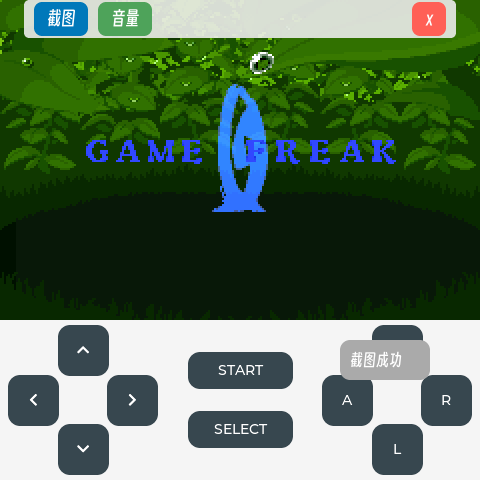
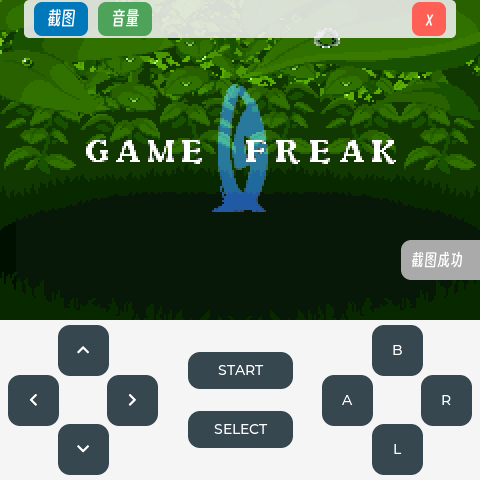
feat(overlay): toast slides in from off-screen right at mid height, clipped 1/8, then drops+ fades
Reworked the screenshot toast animation per the requested feel:
- slide in from OFF-SCREEN right at mid height (y = 480/2 = 240), 700ms,
  stopping with the right ~1/8 of the bar (11px of 90px) still clipped
  outside the screen (rests at x = 480-90+11 = 401, visible 401-480);
- wait 1.5s;
- drop towards the bottom-left (x-30, y+100) while fading out over 500ms,
  then delete (opacity anim's ready cb removes the object).

Board-verified with three framebuffer captures: mid-slide at 0.35s the bar
spans x 430-479 (growing), at rest 0.95s it spans x 401-479 (79px visible =
11px clipped), at 2.95s it is gone. Screenshot log still prints the full
path.

diff --git a/src/gba_core/gba_overlay.c b/src/gba_core/gba_overlay.c
@@ -147,20 +147,28 @@ static void vol_bar_hide(gba_overlay_t* ov)
 }
 
 /* --------------------------------------------------------------------------
- * toast (side tip popup, 1:1 mirror of eMP-video's sideTipsPopupCreate)
- *   - position: align BOTTOM_RIGHT (60, -10)  -> (330, 430) on 480x480
- *   - appear:   lv_anim_move(+10, -90)        -> pops up to (340, 340), 700ms
- *   - vanish:   lv_anim_drop_out()            -> fade out after 1500ms
- * LVGL v9.4 has neither lv_anim_move nor lv_anim_drop_out (v8 APIs), so the
- * same motion is expressed with plain absolute-position/opacity animations.
+ * toast (side tip popup)
+ * Full animation, as requested:
+ *   1) slide in from OFF-SCREEN RIGHT at mid height (y = 480/2 = 240),
+ *      700ms, stopping with the right ~1/8 of the bar (11px) still clipped
+ *      outside the screen (the bar is 90px wide -> rests at x = 480-90+11);
+ *   2) wait 1.5s;
+ *   3) drop towards the bottom-left while fading out (~500ms), then delete.
+ * LVGL v9.4 has no lv_anim_move / lv_anim_drop_out (v8 APIs), so the same
+ * motion is expressed with absolute-position + opacity lv_anim animations.
  * ------------------------------------------------------------------------ */
+
+#define TOAST_W       90
+#define TOAST_H       40
+#define TOAST_X_REST  (GBA_SCREEN_W - TOAST_W + 11)   /* right 11px (~1/8) stays off-screen */
+#define TOAST_Y       (GBA_SCREEN_H / 2)              /* slide in at mid height */
 
 static void toast_set_opa(void* obj, int32_t v)
 {
     lv_obj_set_style_opa((lv_obj_t*)obj, (lv_opa_t)v, 0);
 }
 
-static void toast_fade_out_ready(lv_anim_t* a)
+static void toast_drop_ready(lv_anim_t* a)
 {
     lv_obj_t* pop = (lv_obj_t*)a->var;
     lv_obj_del(pop);
@@ -171,14 +179,19 @@ static void toast_timer_cb(lv_timer_t* t)
     lv_obj_t* pop = (lv_obj_t*)lv_timer_get_user_data(t);
     if (pop == NULL) return;
 
-    /* lv_anim_drop_out: fade to transparent, then delete */
+    /* drop left-down + fade out, then delete */
+    const int x = lv_obj_get_x(pop);
+    const int y = lv_obj_get_y(pop);
+    gba_anim_obj(pop, (lv_anim_exec_xcb_t)lv_obj_set_x, x, x - 30, 500);
+    gba_anim_obj(pop, (lv_anim_exec_xcb_t)lv_obj_set_y, y, y + 100, 500);
+
     lv_anim_t a;
     lv_anim_init(&a);
     lv_anim_set_var(&a, pop);
     lv_anim_set_exec_cb(&a, toast_set_opa);
     lv_anim_set_values(&a, LV_OPA_COVER, LV_OPA_TRANSP);
-    lv_anim_set_time(&a, 300);
-    lv_anim_set_ready_cb(&a, toast_fade_out_ready);
+    lv_anim_set_time(&a, 500);
+    lv_anim_set_ready_cb(&a, toast_drop_ready);
     lv_anim_start(&a);
 }
 
@@ -187,17 +200,13 @@ static void overlay_toast_create(const char* tips)
     lv_obj_t* pop = lv_obj_create(lv_layer_top());
     lv_obj_remove_style_all(pop);
     lv_obj_clear_flag(pop, LV_OBJ_FLAG_SCROLLABLE);
-    lv_obj_set_size(pop, 90, 40);
+    lv_obj_set_size(pop, TOAST_W, TOAST_H);
     lv_obj_set_style_bg_opa(pop, LV_OPA_COVER, 0);
     lv_obj_set_style_bg_color(pop, lv_color_hex(0xAAAAAA), 0);
     lv_obj_set_style_radius(pop, 10, 0);
-    /* absolute pos of BOTTOM_RIGHT (60, -10) */
-    lv_obj_set_pos(pop, GBA_SCREEN_W - 90 - 60, GBA_SCREEN_H - 40 - 10);
-    /* appear: pop up (+10, -90) like lv_anim_move */
-    gba_anim_obj(pop, (lv_anim_exec_xcb_t)lv_obj_set_x,
-                 GBA_SCREEN_W - 90 - 60, GBA_SCREEN_W - 90 - 60 + 10, 700);
-    gba_anim_obj(pop, (lv_anim_exec_xcb_t)lv_obj_set_y,
-                 GBA_SCREEN_H - 40 - 10, GBA_SCREEN_H - 40 - 10 - 90, 700);
+    /* 1) slide in from off-screen right at mid height */
+    lv_obj_set_pos(pop, GBA_SCREEN_W, TOAST_Y);
+    gba_anim_obj(pop, (lv_anim_exec_xcb_t)lv_obj_set_x, GBA_SCREEN_W, TOAST_X_REST, 700);
 
     lv_obj_t* label = lv_label_create(pop);
     lv_font_t* f = gba_font_get(16);
@@ -206,7 +215,7 @@ static void overlay_toast_create(const char* tips)
     lv_obj_align(label, LV_ALIGN_LEFT_MID, 10, 0);
     lv_label_set_text(label, tips);
 
-    /* one-shot timer: fade out + delete after 1.5s */
+    /* 2) wait 1.5s, then drop + fade out */
     lv_timer_t* t = lv_timer_create(toast_timer_cb, 1500, pop);
     lv_timer_set_repeat_count(t, 1);
 }

diff --git a/README.md b/README.md
@@ -112,7 +112,7 @@ export LV_GBA_AUDIO_DEVICE=default   # ALSA PCM 设备（可选）
   - **右划** → 音量条收回
 - 音量条打开时**忽略下滑**（避免拖动滑块误呼出顶部栏）；顶部栏「音量」按钮也可开关音量条。
 - 顶部栏按钮：
-  - **截图**：抓取 `/dev/fb0` 当前可见页，写出 24-bit BMP 到 `/root/screenshot_<时间戳>.bmp`；成功后在右下角向上弹出「截图成功」提示条（toast：对齐 `BOTTOM_RIGHT (60,-10)` 后上移 90px，1.5s 后淡出消失），并在 stderr 打印**完整保存路径**（`[gba] screenshot saved: /root/screenshot_xxx.bmp (480x480)`）
+  - **截图**：抓取 `/dev/fb0` 当前可见页，写出 24-bit BMP 到 `/root/screenshot_<时间戳>.bmp`；成功后在**屏幕中部高度（y≈240）**从屏幕外右侧滑入「截图成功」提示条（右侧 1/8 ≈11px 截断在屏外），停留 1.5s 后**向左下方掉落并同步淡出**，并在 stderr 打印**完整保存路径**（`[gba] screenshot saved: /root/screenshot_xxx.bmp (480x480)`）
   - **音量**：开关音量条
   - **x（退出）**：返回 ROM 选择菜单（同 SELECT 长按）
 - 手势由多点触控驱动（`input_mt.cpp`）按触点轨迹检测，滑动超过 **90px** 触发一次（单指）；进出场动画照抄 eMP-video：**400ms ease-out + 展开效果**（顶栏下滑时从 20px 宽**居中**展开——x 与 width 联动保持水平居中，音量条滑入时从 30px 高展开）。
@@ -135,7 +135,7 @@ export LV_GBA_AUDIO_DEVICE=default   # ALSA PCM 设备（可选）
 |---|---|---|---|
 | ![vk_pad](docs/img/vk_pad.png) | ![topbar](docs/img/topbar.png) | ![volbar_v2](docs/img/volbar_v2.png) | ![menu_topbar](docs/img/menu_topbar.png) |
 
-| 截图成功提示条（右下角弹出，eMP-video 同款动向） |
+| 截图成功提示条（中部滑入，右侧截断，掉落淡出） |
 |---|
 | ![toast](docs/img/toast.png) |
 
